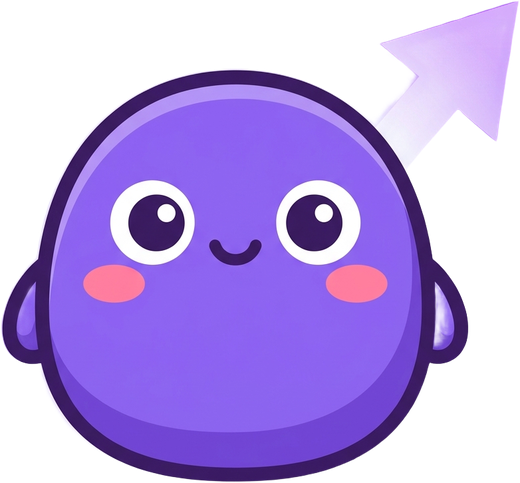
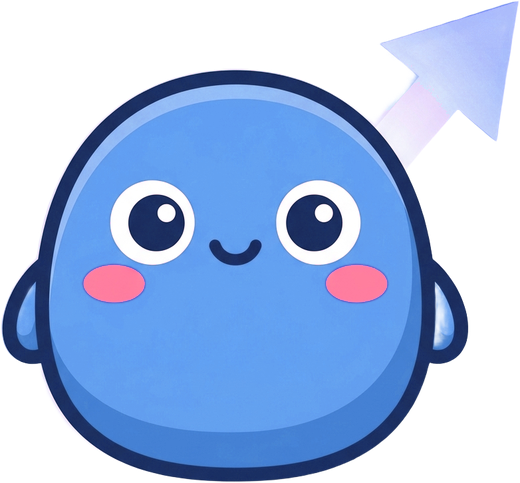
Fix stale share-card count 377 -> 5,000+ free; recolor source rampy.png to cobalt so re-renders stay on-brand

diff --git a/assets/og-card.src.html b/assets/og-card.src.html
@@ -39,7 +39,7 @@
   <div class="orb a"></div><div class="orb b"></div>
   <div class="copy">
     <span class="eyebrow">Free MCAT practice</span>
-    <h1><span class="free">377 free</span> questions,<br>and the hard ones<br>explain themselves.</h1>
+    <h1><span class="free">5,000+ free</span> questions,<br>and the hard ones<br>explain themselves.</h1>
     <p>Miss one and you get a 40-second narrated<br>walkthrough of the reasoning.</p>
     <div class="foot"><span class="dot"></span>rampupmcat.com</div>
   </div>
